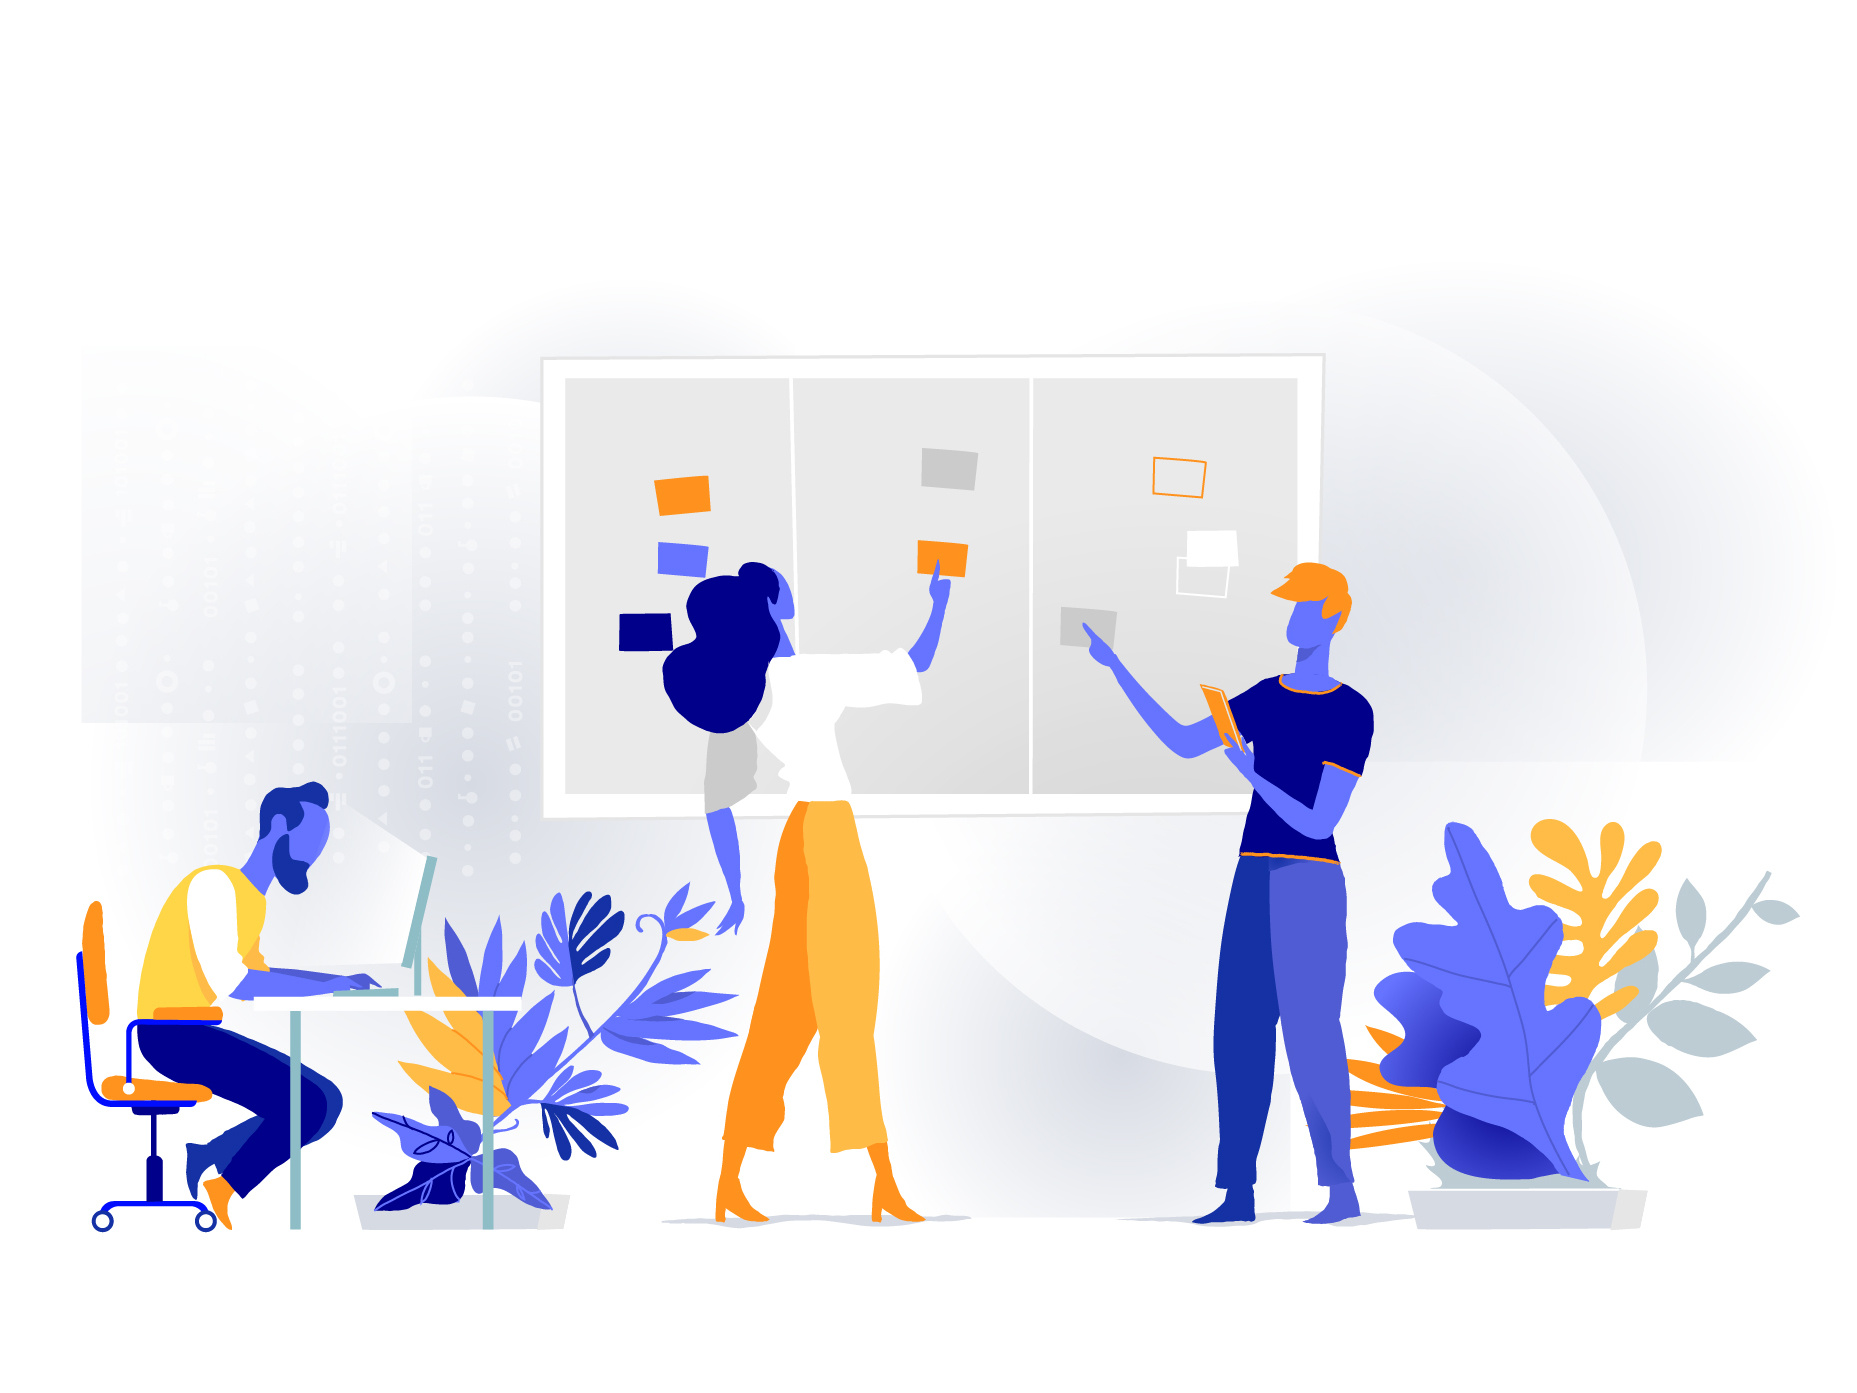
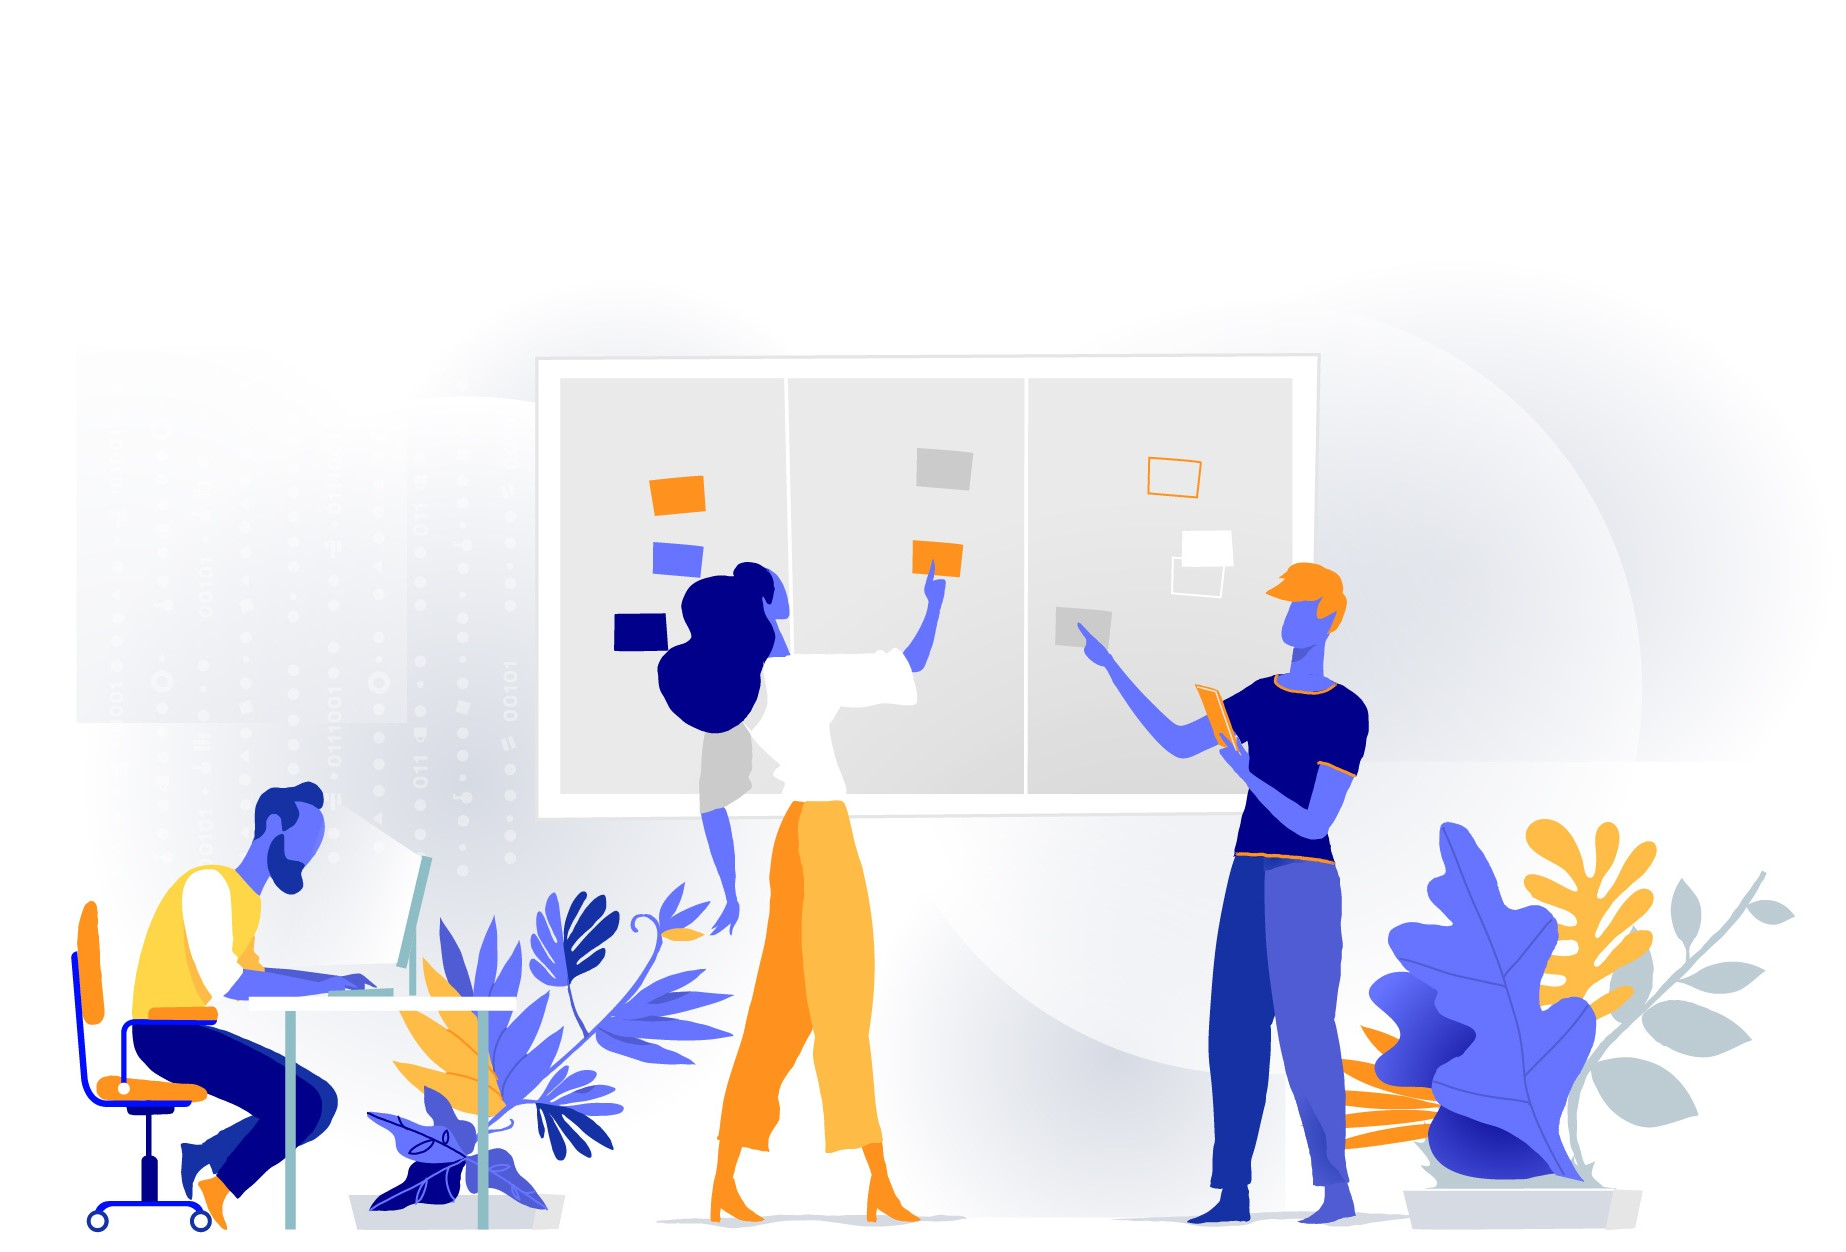
figure out how to overrride react-trello styles

diff --git a/src/components/LandingPage/Landing.css b/src/components/LandingPage/Landing.css
@@ -54,7 +54,6 @@ button {
 
 /*  BACKGROUND IMG  */
 .scrum-board {
-  margin-top: 50px;
   width: 350px;
 }
 
@@ -97,7 +96,7 @@ footer {
 
 .landing-main-inner-wrapper {
   position: absolute;
-  top: 300px;
+  top: 280px;
   left: 0;
   right: 0;
 }
@@ -106,11 +105,10 @@ footer {
   color: #6774FF;
 }
 
-
 @media screen and (min-width: 600px) {
   
   .landing-main-inner-wrapper .headline {
-    font-size: 50px;
+    font-size: 40px;
   }
 
   .landing-main-inner-wrapper h3 {
@@ -118,13 +116,22 @@ footer {
   }
 
   .scrum-board {
-    width: 400px;
-    margin-top: 0;
+    width: 380px;
   }
 
 }
 
-@media screen and (min-width: 750px) {
+@media screen and (min-width: 800px) {
+
+  .scrum-board {
+    width: 420px;
+  }
+
+  .headline-img-wrapper {
+    width: 700px;
+    margin-left: auto;
+    margin-right: auto;
+  }
 
   .landing-main-inner-wrapper {
     text-align: left;
@@ -132,25 +139,80 @@ footer {
     left: 100px;
   }
 
+  .landing-main-inner-wrapper .headline {
+    font-size: 45px;
+  }
+
   .scrum-board-wrapper {
     float: right;
-    margin-top: 150px;
-    margin-right: 100px;
+    margin-top: 150px
   }
 
   footer {
-    left: 150px;
-    right: 150px;
+    left: 100px;
+    right: 100px;
   }
 
   nav {
-    margin-left: 150px;
-    margin-right: 150px;
+    margin-left: 100px;
+    margin-right: 100px;
   }
 
 }
 
+@media screen and (min-width: 900px) {
+
+  .landing-main-inner-wrapper .headline {
+    font-size: 55px;
+  }
+
+}
+
+@media screen and (min-width: 1000px) {
+
+  .scrum-board {
+    width: 500px;
+  }
+
+  .scrum-board-wrapper {
+    margin-top: 100px;
+  }
+
+  .landing-main-inner-wrapper {
+    left: 150px;
+  }
+
+  .headline-img-wrapper {
+    width: 800px;
+  }
+}
+
 @media screen and (min-width: 1200px) {
 
+  .scrum-board {
+    width: 600px;
+  }
 
+  .scrum-board-wrapper {
+    margin-top: 0;
+  }
+
+  .landing-main-inner-wrapper .headline {
+    font-size: 60px;
+  }
+
+  .landing-main-inner-wrapper {
+    left: 200px;
+  }
+
+  .headline-img-wrapper {
+    width: 1000px;
+  }
+}
+
+@media screen and (min-width: 1300px) {
+
+  .landing-main-inner-wrapper {
+    left: 300px;
+  }
 }

diff --git a/src/components/LandingPage/Main.js b/src/components/LandingPage/Main.js
@@ -6,17 +6,18 @@ class Main extends Component {
   render() {
     return (
       <main className='landing-main'>
-        <div className='scrum-board-wrapper'>
-          <img src={scrumBoard} alt="scrum-board-bg" className="scrum-board" />
-        </div>
+        <div className='headline-img-wrapper'>
+          <div className='scrum-board-wrapper'>
+            <img src={scrumBoard} alt="scrum-board-bg" className="scrum-board" />
+          </div>
 
-        <div className='landing-main-inner-wrapper'>
-          <h1 className='headline'>Track small
+          <div className='landing-main-inner-wrapper'>
+            <h1 className='headline'>Track small
             <br />to large scale
             <br />projects.
           </h1>
+          </div>
         </div>
-
         <div className='footer-wrapper'>
           <Link to='/demo-project' className='btn btn-demo'>EXPLORE VISBO</Link>
           <h3>Easy, flexibile and free.</h3>

diff --git a/src/components/LandingPage/Header.js b/src/components/LandingPage/Header.js
@@ -9,7 +9,7 @@ class Header extends Component {
           <ul>
             <span className="glyphicon glyphicon-check logo"></span>
             <NavLink to='/' className='logo'>visbo</NavLink>
-            <li className='landing-nav-li'>Sign Up</li>
+            {/* <li className='landing-nav-li'>Sign Up</li> */}
             <NavLink to='/demo-project' className='landing-nav-li demo'>Demo</NavLink>
           </ul>
         </nav>
